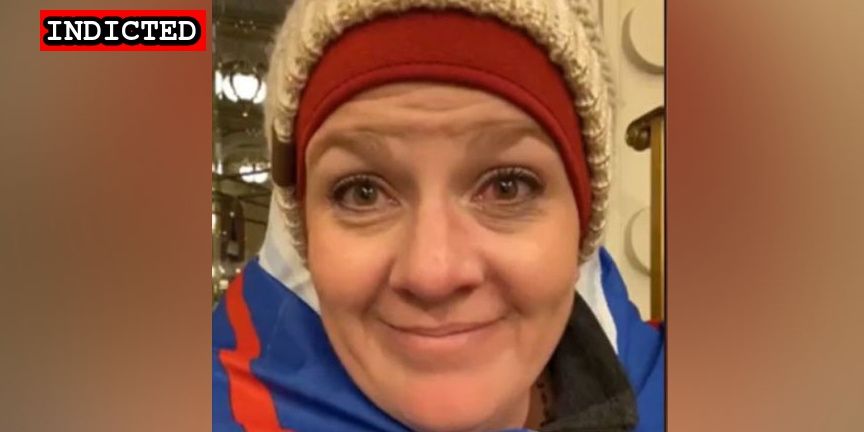
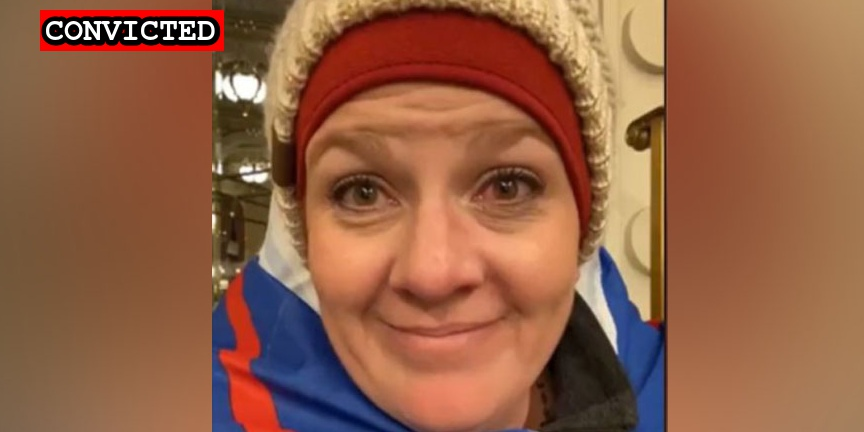
Cudd plea

Changed region(s): [[0.0312, 0.0, 0.2812, 0.1204]]

diff --git a/docs/_suspects/jenny-cudd.md b/docs/_suspects/jenny-cudd.md
@@ -4,16 +4,16 @@ lastName: Cudd
 hashtag: JennyCudd
 aka:
 residence: Texas
-status: Indicted
+status: Convicted
 date: 2021-01-13
 charged: 2021-01-13
 indicted: 2021-02-03
-convicted:
+convicted: 2021-10-13
 sentenced:
 dismissed:
 deceased:
-plea_hearing:
-sentencing:
+plea_hearing: 2021-10-13
+sentencing: 2021-03-18
 age: 36
 occupation:
 affiliations:
@@ -34,8 +34,13 @@ published: true
 caseNumber: 1:21-cr-68
 videos:
 charges:
+  - code: 18 USC § 5104(e)(2)(G)
+    title: Parading, demonstrating or picketing in a Capitol building
+    url: https://www.law.cornell.edu/uscode/text/40/5104
+    felony: false
 sentence:
 ---
+
 - [News Report](https://www.cbs7.com/2021/01/13/first-on-cbs7-fbi-arrests-jenny-cudd-for-rioting-at-capitol/)
 - [Self Incrimination](https://twitter.com/JoshuaSkinnerTV/status/1349395279179558914?s=20)
 - [Statement of Facts](https://www.justice.gov/opa/page/file/1353436/download)
